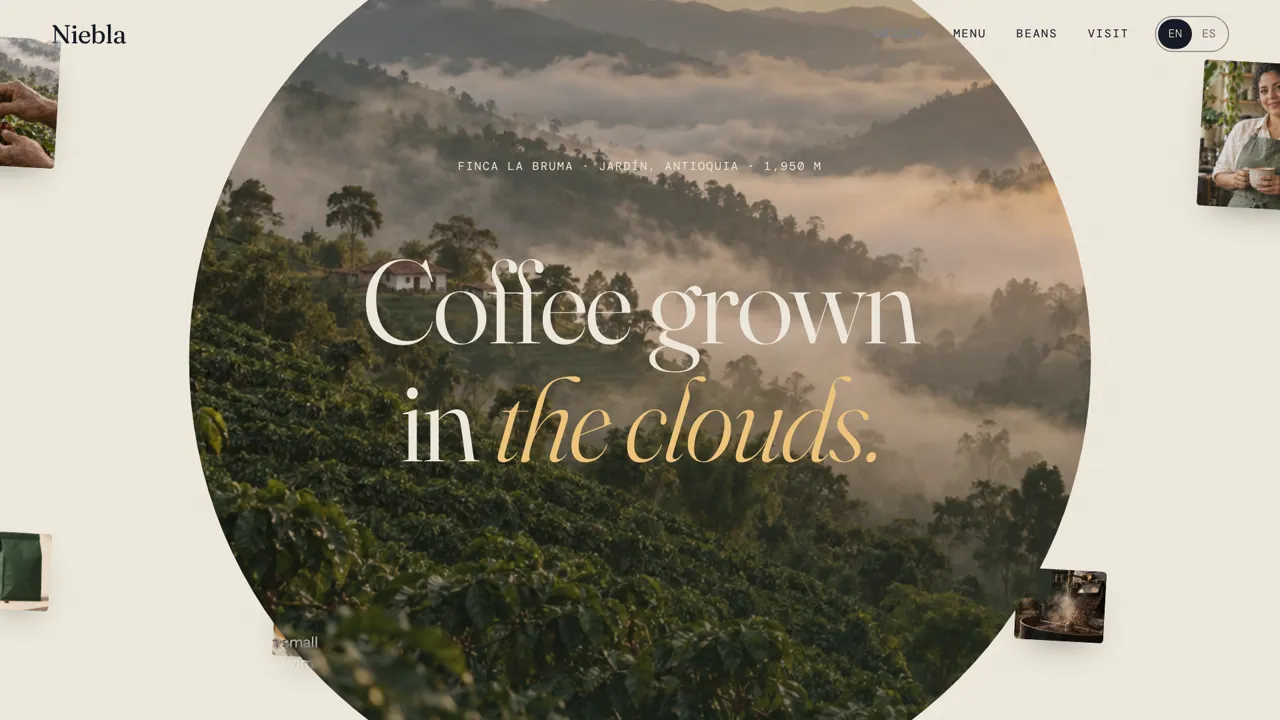
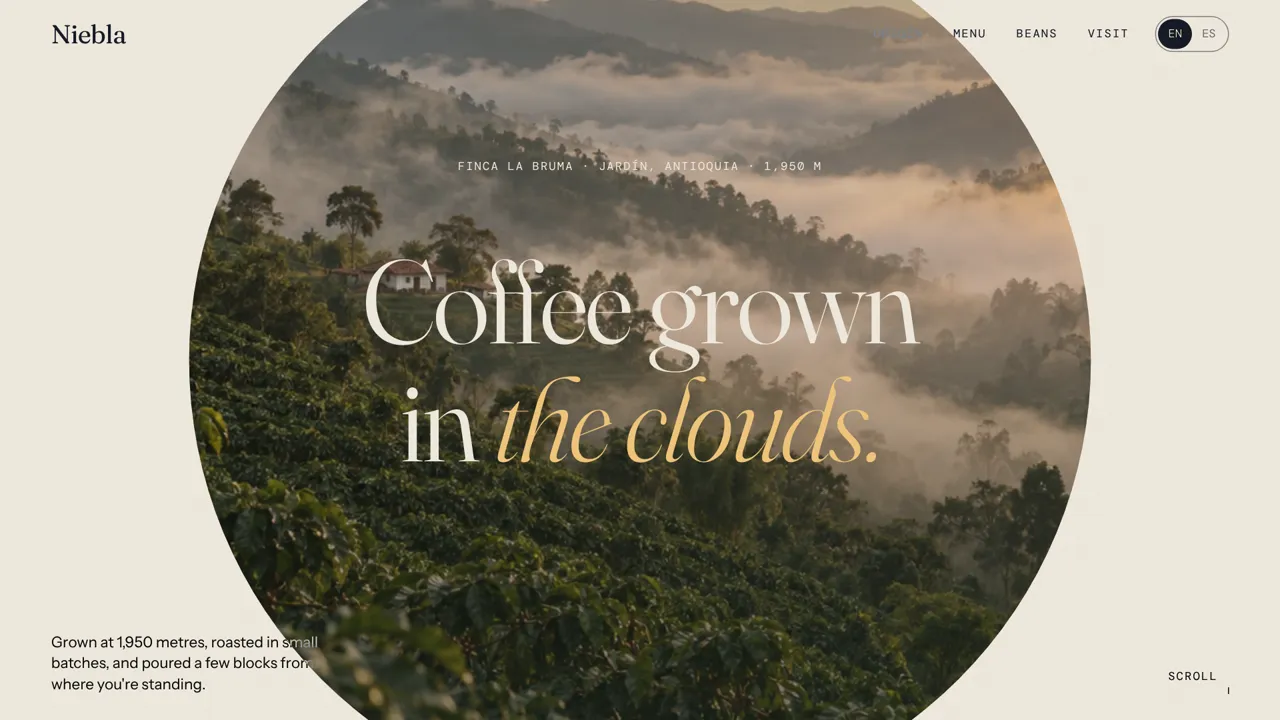
Clean up Niebla's opening and reword the Sample work intro
Remove the floating photo cards around Niebla's headline so the opening
is just the headline and the cloud-forest reveal. Give the hero its own
background so the opening paragraph and scroll hint are visible. Refresh
the Niebla card images and reword the Sample work intro in EN and ES.

Claude-Session: https://claude.ai/code/session_01U6GP31rpW1JLFeQtvjh4xy

diff --git a/demos/niebla/index.html b/demos/niebla/index.html
@@ -64,14 +64,11 @@ button { font: inherit; color: inherit; background: none; border: 0; cursor: poi
 @media (max-width: 720px) { .nav-links a { display: none; } }
 
 /* Hero */
-.hero { position: relative; height: 100vh; height: 100svh; overflow: hidden; }
+.hero { position: relative; height: 100vh; height: 100svh; overflow: hidden; background: var(--cream); }
 .hero-stage { position: absolute; inset: 0; display: grid; place-items: center; }
 .hero h1 { font-size: clamp(46px, 9.2vw, 168px); text-align: center; position: relative; z-index: 3; padding: 0 var(--pad); }
 .hero h1 i { color: var(--ochre); }
 .hero-kicker { position: absolute; top: 22%; left: 0; right: 0; text-align: center; z-index: 3; }
-.cards { position: absolute; inset: 0; z-index: 2; pointer-events: none; }
-.card { position: absolute; left: 50%; top: 50%; width: var(--w); aspect-ratio: var(--ar, 4/5); margin: calc(var(--w) * -0.6) 0 0 calc(var(--w) * -0.5); border-radius: 6px; overflow: hidden; box-shadow: 0 30px 60px -30px rgba(20,26,21,.45); will-change: transform; }
-.card img { width: 100%; height: 100%; object-fit: cover; }
 .hero-reveal { position: absolute; inset: 0; z-index: 4; clip-path: circle(0% at 50% 50%); will-change: clip-path; color: var(--cream); }
 .hero-reveal img { position: absolute; inset: 0; width: 100%; height: 100%; object-fit: cover; transform: scale(1.25); will-change: transform; }
 .hero-reveal::after { content: ""; position: absolute; inset: 0; background: linear-gradient(180deg, rgba(24,36,28,.28), rgba(24,36,28,.05) 40%, rgba(24,36,28,.55)); }
@@ -234,15 +231,6 @@ button { font: inherit; color: inherit; background: none; border: 0; cursor: poi
     <div class="hero-stage">
       <p class="hero-kicker mono" data-es="Tostadores de café de altura · Desde 2014">Cloud-forest coffee roasters · Since 2014</p>
       <h1 class="serif" data-hero data-es="Café que crece<br>entre <i>las nubes.</i>">Coffee grown<br>in <i>the clouds.</i></h1>
-    </div>
-    <div class="cards" aria-hidden="true">
-      <div class="card" style="--w:clamp(110px,15vw,250px);--x:-38vw;--y:-24vh;--r:-7deg" data-d=".9"><img src="img/cherries.jpg" alt=""></div>
-      <div class="card" style="--w:clamp(90px,11vw,180px);--x:-21vw;--y:29vh;--r:5deg;--ar:1" data-d=".5"><img src="img/latte.jpg" alt=""></div>
-      <div class="card" style="--w:clamp(120px,17vw,280px);--x:36vw;--y:-20vh;--r:6deg" data-d="1.1"><img src="img/barista.jpg" alt=""></div>
-      <div class="card" style="--w:clamp(100px,13vw,210px);--x:26vw;--y:30vh;--r:-4deg;--ar:5/4" data-d=".7"><img src="img/roaster.jpg" alt=""></div>
-      <div class="card" style="--w:clamp(70px,8vw,130px);--x:-8vw;--y:-36vh;--r:3deg;--ar:1" data-d=".35"><img src="img/pour.jpg" alt=""></div>
-      <div class="card" style="--w:clamp(80px,9vw,150px);--x:-41vw;--y:22vh;--r:-3deg" data-d=".6"><img src="img/bag.jpg" alt=""></div>
-      <div class="card" style="--w:clamp(70px,8vw,140px);--x:10vw;--y:38vh;--r:8deg;--ar:5/4" data-d=".4"><img src="img/interior.jpg" alt=""></div>
     </div>
     <div class="hero-reveal" aria-hidden="true">
       <img src="img/farm.jpg" alt="">
@@ -446,30 +434,17 @@ button { font: inherit; color: inherit; background: none; border: 0; cursor: poi
   setTimeout(function () { clearInterval(poll); start(); }, 6000);
 
   /* Hero */
-  var cards = $$('.card');
-  cards.forEach(function (c) { gsap.set(c, { x: 0, y: 0, scale: .2, opacity: 0, rotation: 0 }); });
   var heroSplit = new SplitText('[data-hero]', { type: 'lines', mask: 'lines' });
   gsap.set(heroSplit.lines, { yPercent: 110 });
   gsap.set(['.hero-stage > .hero-kicker', '.hero-foot'], { opacity: 0 });
   function intro() {
     var tl = gsap.timeline();
     tl.to(heroSplit.lines, { yPercent: 0, duration: 1.3, ease: 'expo.out', stagger: .1 })
-      .to(cards, { x: function (i, el) { return getComputedStyle(el).getPropertyValue('--x'); }, y: function (i, el) { return getComputedStyle(el).getPropertyValue('--y'); }, rotation: function (i, el) { return parseFloat(getComputedStyle(el).getPropertyValue('--r')); }, scale: 1, opacity: 1, duration: 1.6, ease: 'expo.out', stagger: .06 }, .1)
       .to(['.hero-stage > .hero-kicker', '.hero-foot'], { opacity: 1, duration: 1 }, .7);
     return tl;
   }
-  /* cards drift with the pointer */
-  if (fine && !reduce) {
-    var inner = cards.map(function (c) { return { el: c.firstElementChild, d: parseFloat(c.dataset.d) }; });
-    var movers = inner.map(function (o) { return { x: gsap.quickTo(o.el, 'x', { duration: 1.2, ease: 'power3.out' }), y: gsap.quickTo(o.el, 'y', { duration: 1.2, ease: 'power3.out' }) }; });
-    inner.forEach(function (o) { gsap.set(o.el, { scale: 1.18 }); });
-    window.addEventListener('pointermove', function (e) {
-      var nx = e.clientX / innerWidth - .5, ny = e.clientY / innerHeight - .5;
-      inner.forEach(function (o, i) { movers[i].x(-nx * 26 * o.d); movers[i].y(-ny * 26 * o.d); });
-    }, { passive: true });
-  }
   var heroTl = gsap.timeline({ scrollTrigger: { trigger: '.hero', start: 'top top', end: '+=170%', pin: true, scrub: .6, anticipatePin: 1 } });
-  heroTl.to(cards, { xPercent: function (i, el) { return parseFloat(getComputedStyle(el).getPropertyValue('--x')) * 9; }, yPercent: function (i, el) { return parseFloat(getComputedStyle(el).getPropertyValue('--y')) * 7; }, scale: 1.7, rotation: '+=14', ease: 'power2.in', duration: 1 }, 0)
+  heroTl
     .to('.hero-reveal', { clipPath: 'circle(75% at 50% 50%)', ease: 'power2.inOut', duration: 1 }, .08)
     .to('.hero-reveal img', { scale: 1, ease: 'none', duration: 1.4 }, .08)
     .to('.hero-foot', { opacity: 0, duration: .3 }, 1.1)

diff --git a/index.html b/index.html
@@ -460,7 +460,7 @@ footer p { margin: 0; color: var(--mute); font-size: 14px; }
     <div class="wrap">
       <div class="label">Sample work</div>
       <h2>Sites we've built.</h2>
-      <p class="intro">Three concept sites for made-up businesses, built to show the motion and detail we can bring to yours. Plus one that is live.</p>
+      <p class="intro">Three concept sites for made-up businesses and one live site for a real studio. Each shows the motion and detail we can bring to yours.</p>
       <div class="work">
         <a class="site" href="demos/niebla/" data-demo="niebla">
           <div class="chrome" aria-hidden="true"><i></i><i></i><i></i><span>estudiowebz.com/demos/niebla</span></div>
@@ -583,7 +583,7 @@ footer p { margin: 0; color: var(--mute); font-size: 14px; }
     "What runs underneath ↓": "Lo que funciona por debajo ↓",
     "Sites we've built.": "Sitios que hemos creado.",
     "Visit the live site": "Visitar el sitio",
-    "Three concept sites for made-up businesses, built to show the motion and detail we can bring to yours. Plus one that is live.": "Tres sitios concepto para negocios inventados, hechos para mostrar el movimiento y el detalle que podemos darle al tuyo. Y uno que ya está en línea.",
+    "Three concept sites for made-up businesses and one live site for a real studio. Each shows the motion and detail we can bring to yours.": "Tres sitios concepto para negocios inventados y un sitio en línea para un estudio real. Cada uno muestra el movimiento y el detalle que podemos darle al tuyo.",
     "Concept demo": "Demo concepto",
     "Live site": "Sitio en línea",
     "Interior design studio · Bogotá": "Estudio de diseño interior · Bogotá",
